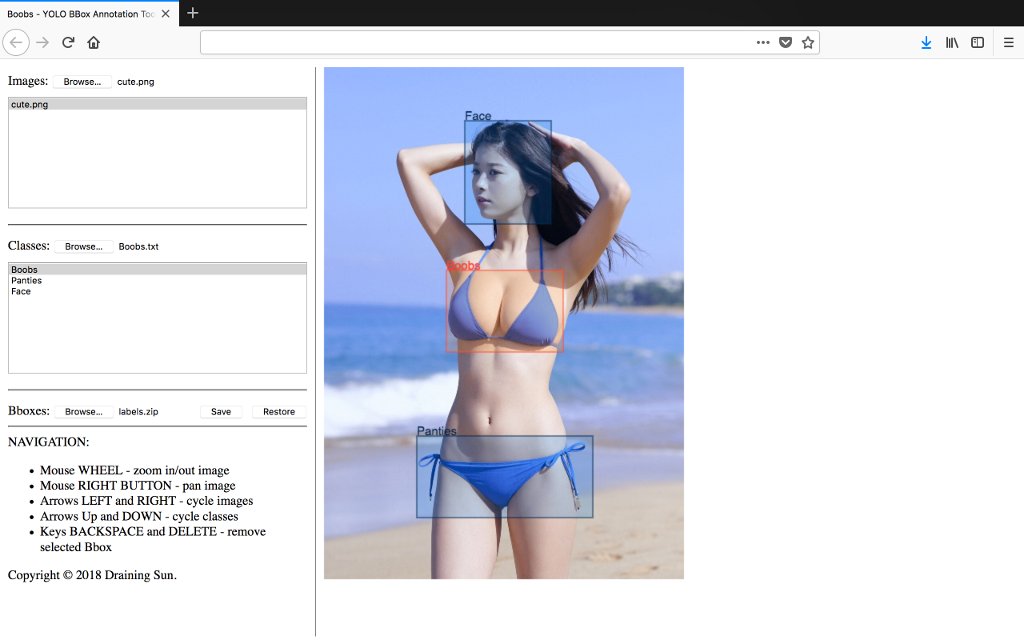
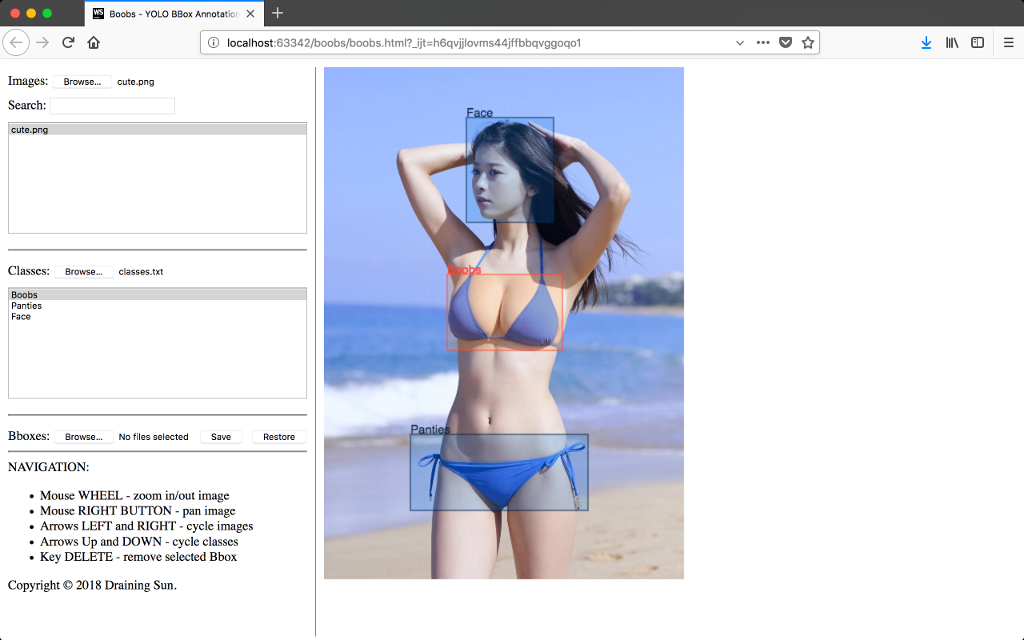
v0.1.2

diff --git a/boobs.js b/boobs.js
@@ -17,7 +17,8 @@
     const minZoom = 0.1 // Min size of original
     const maxZoom = 5 // Max size of original
     const edgeSize = 5 // Pixels
-    let scale = 0.5 // Default zoom level
+    const resetCanvasOnChange = true // Or false
+    const defaultScale = 0.5 // Default zoom level
 
     // Main containers
     let canvas = null
@@ -34,6 +35,7 @@
     let classListIndex = 0
 
     // Scaling containers
+    let scale = defaultScale
     let canvasX = 0
     let canvasY = 0
     let screenX = 0
@@ -76,6 +78,7 @@
             listenBboxSave()
             listenBboxRestore()
             listenKeyboard()
+            listenImageSearch()
         }
     }
 
@@ -508,7 +511,10 @@
                     const nameParts = files[i].name.split(".")
 
                     if (extensions.indexOf(nameParts[nameParts.length - 1]) !== -1) {
-                        images[files[i].name] = {meta: files[i]}
+                        images[files[i].name] = {
+                            meta: files[i],
+                            index: i
+                        }
 
                         const option = document.createElement("option")
 
@@ -690,80 +696,100 @@
         document.getElementById("bboxes").addEventListener("change", (event) => {
             resetBboxes()
 
-            const reader = new FileReader()
+            const files = event.target.files
 
-            reader.addEventListener("load", () => {
-                const zip = new JSZip()
+            if (files.length > 0) {
+                for (let i = 0; i < files.length; i++) {
+                    const reader = new FileReader()
 
-                zip.loadAsync(reader.result)
-                    .then((result) => {
-                        for (let filename in result.files) {
-                            result.file(filename).async("string")
-                                .then((text) => {
-                                    let image = null
-                                    let bbox = null
+                    const nameParts = files[i].name.split(".")
 
-                                    for (let i = 0; i < extensions.length; i++) {
-                                        const imageName = filename.replace(".txt", `.${extensions[i]}`)
+                    reader.addEventListener("load", () => {
+                        if (nameParts[nameParts.length - 1] === "txt") {
+                            storeBbox(files[i].name, reader.result)
+                        } else {
+                            const zip = new JSZip()
 
-                                        if (typeof images[imageName] !== "undefined") {
-                                            image = images[imageName]
-
-                                            if (typeof bboxes[imageName] === "undefined") {
-                                                bboxes[imageName] = {}
-                                            }
-
-                                            bbox = bboxes[imageName]
-
-                                            break
-                                        }
-                                    }
-
-                                    if (bbox) {
-                                        const rows = text.split("\n")
-
-                                        for (let i = 0; i < rows.length; i++) {
-                                            const cols = rows[i].split(" ")
-
-                                            cols[0] = parseInt(cols[0])
-
-                                            for (let className in classes) {
-                                                if (classes[className] === cols[0]) {
-                                                    if (typeof bbox[className] === "undefined") {
-                                                        bbox[className] = []
-                                                    }
-
-                                                    // Reverse engineer actual position and dimensions from yolo format
-                                                    const width = Math.floor(cols[3] * image.width)
-                                                    const x = Math.floor(cols[1] * image.width)
-                                                    const height = Math.floor(cols[4] * image.height)
-                                                    const y = Math.floor(cols[2] * image.height)
-
-                                                    bbox[className].push({
-                                                        x: x - width * 0.5,
-                                                        y: y - height * 0.5,
-                                                        width: width,
-                                                        height: height,
-                                                        marked: false,
-                                                        class: className
-                                                    })
-
-                                                    break
-                                                }
-                                            }
-                                        }
+                            zip.loadAsync(reader.result)
+                                .then((result) => {
+                                    for (let filename in result.files) {
+                                        result.file(filename).async("string")
+                                            .then((text) => {
+                                                storeBbox(filename, text)
+                                            })
                                     }
                                 })
                         }
                     })
-            })
 
-            reader.readAsArrayBuffer(event.target.files[0])
+                    if (nameParts[nameParts.length - 1] === "txt") {
+                        reader.readAsText(files[i])
+                    } else {
+                        reader.readAsArrayBuffer(event.target.files[i])
+                    }
+                }
+            }
         })
     }
 
     const resetBboxes = () => {
         bboxes = {}
+    }
+
+    const storeBbox = (filename, text) => {
+        let image = null
+        let bbox = null
+
+        for (let i = 0; i < extensions.length; i++) {
+            const imageName = filename.replace(".txt", `.${extensions[i]}`)
+
+            if (typeof images[imageName] !== "undefined") {
+                image = images[imageName]
+
+                if (typeof bboxes[imageName] === "undefined") {
+                    bboxes[imageName] = {}
+                }
+
+                bbox = bboxes[imageName]
+
+                break
+            }
+        }
+
+        if (bbox) {
+            const rows = text.split("\n")
+
+            for (let i = 0; i < rows.length; i++) {
+                const cols = rows[i].split(" ")
+
+                cols[0] = parseInt(cols[0])
+
+                for (let className in classes) {
+                    if (classes[className] === cols[0]) {
+                        if (typeof bbox[className] === "undefined") {
+                            bbox[className] = []
+                        }
+
+                        // Reverse engineer actual position and dimensions from yolo format
+                        const width = Math.floor(cols[3] * image.width)
+                        const x = Math.floor(cols[1] * image.width - width * 0.5)
+                        const height = Math.floor(cols[4] * image.height)
+                        const y = Math.floor(cols[2] * image.height - height * 0.5)
+
+                        bbox[className].push({
+                            x: x,
+                            y: y,
+                            width: width,
+                            height: height,
+                            marked: false,
+                            class: className
+                        })
+
+                        break
+                    }
+                }
+            }
+        }
     }
 
     const listenBboxSave = () => {
@@ -833,10 +859,12 @@
         document.addEventListener("keydown", (event) => {
             const key = event.keyCode || event.charCode
 
-            if (key === 8 || key === 46) {
+            if (key === 46) {
                 if (currentBbox !== null) {
                     bboxes[currentImage.name][currentBbox.bbox.class].splice(currentBbox.index, 1)
                     currentBbox = null
+
+                    document.body.style.cursor = "default"
                 }
 
                 event.preventDefault()
@@ -853,6 +881,11 @@
                     }
 
                     imageList.options[imageListIndex].selected = true
+                    imageList.selectedIndex = imageListIndex
+
+                    if (resetCanvasOnChange === true) {
+                        resetCanvasPlacement()
+                    }
 
                     setCurrentImage(images[imageList.options[imageListIndex].innerHTML])
 
@@ -873,6 +906,11 @@
                     }
 
                     imageList.options[imageListIndex].selected = true
+                    imageList.selectedIndex = imageListIndex
+
+                    if (resetCanvasOnChange === true) {
+                        resetCanvasPlacement()
+                    }
 
                     setCurrentImage(images[imageList.options[imageListIndex].innerHTML])
 
@@ -893,6 +931,7 @@
                     }
 
                     classList.options[classListIndex].selected = true
+                    classList.selectedIndex = classListIndex
 
                     setCurrentClass()
                 }
@@ -911,11 +950,45 @@
                     }
 
                     classList.options[classListIndex].selected = true
+                    classList.selectedIndex = classListIndex
 
                     setCurrentClass()
                 }
 
                 event.preventDefault()
+            }
+        })
+    }
+
+    const resetCanvasPlacement = () => {
+        scale = defaultScale
+        canvasX = 0
+        canvasY = 0
+        screenX = 0
+        screenY = 0
+
+        mouse.x = 0
+        mouse.y = 0
+        mouse.realX = 0
+        mouse.realY = 0
+        mouse.buttonL = 0
+        mouse.buttonR = 0
+        mouse.startRealX = 0
+        mouse.startRealY = 0
+    }
+
+    const listenImageSearch = () => {
+        document.getElementById("imageSearch").addEventListener("input", (event) => {
+            const value = event.target.value
+
+            for (let imageName in images) {
+                if (imageName.indexOf(value) !== -1) {
+                    document.getElementById("imageList").selectedIndex = images[imageName].index
+
+                    setCurrentImage(images[imageName])
+
+                    break
+                }
             }
         })
     }

diff --git a/boobs.html b/boobs.html
@@ -17,6 +17,12 @@
             <form action="">
                 <label for="images">Images:</label>
                 <input type="file" id="images" name="images[]" accept="image/jpeg, image/png" multiple />
+
+                <br />
+
+                <label for="imageSearch">Search:</label>
+                <input type="text" id="imageSearch" name="imageSearch" />
+
                 <label for="imageList"></label><select name="imageList" id="imageList" size="10" multiple></select>
 
                 <hr />
@@ -28,7 +34,7 @@
                 <hr />
 
                 <label for="bboxes">Bboxes:</label>
-                <input type="file" id="bboxes" name="bboxes" accept="application/zip" disabled />
+                <input type="file" id="bboxes" name="bboxes" accept="text/plain, application/zip" disabled multiple />
                 <input type="button" name="restoreBboxes" id="restoreBboxes" value="Restore" disabled />
                 <input type="button" name="saveBboxes" id="saveBboxes" value="Save" />
 
@@ -50,7 +56,7 @@
                             Arrows Up and DOWN - cycle classes
                         </li>
                         <li>
-                            Keys BACKSPACE and DELETE - remove selected Bbox
+                            Key DELETE - remove selected Bbox
                         </li>
                     </ul>
 

diff --git a/boobs.css b/boobs.css
@@ -48,3 +48,7 @@ body {
     margin-left: 10px;
     margin-top: 10px;
 }
+
+#imageSearch {
+    margin-top: 10px
+}

diff --git a/README.md b/README.md
@@ -1,5 +1,5 @@
 # Boobs - YOLO BBox Annotation Tool
-Fast and efficient BBox labeling for your images in YOLO format.
+Fast and efficient BBox annotation for your images in YOLO format.
 
 ## INTRO
 To see why and for what this was created, please read [Boobs - YOLO BBox Annotation Tool](https://medium.com/@drainingsun/boobs-yolo-bbox-annotation-tool-96fb765d0036)
@@ -10,7 +10,7 @@ To see why and for what this was created, please read [Boobs - YOLO BBox Annotat
 1. Download the zip.
 2. Extract it.
 3. Open `boobs.html` in your browser.
-4. Load images and classes and start labeling!
+4. Load images and classes and start bboxing!
 
 ## CONFIGURATION
 1. Open boobs.js.
@@ -27,12 +27,12 @@ All browsers that support ES6 should work. Tested with:
 No idea about IE/Edge.
 
 ## FEATURES
-* Work in your browser on any platform.
+* Works in your browser on any platform.
 * Complete YOLO format support.
-* No need for image upload - label locally!
-* Zooming and panning images for precise labeling.
-* Fast navigation for quick labeling.
-* Auto save in memory for accidental refreshes and crashes.
+* No need for image upload - everything is done locally!
+* Zooming and panning images for precise bboxing.
+* Fast navigation for quick bboxing.
+* Auto save in memory in case of accidental refreshes and crashes.
 
 ## CAVEATS
 Loading many and or big images might take a while. This is because tool needs to figure out image dimensions. 

diff --git a/CHANGELOG.md b/CHANGELOG.md
@@ -1,7 +1,18 @@
+# 2018-02-17, v0.1.2
+
+* Fixed CHANGELOG formatting.
+* Fixed select box not auto scrolling to selection.
+* Made sure coordinate pixels are without decimal point.
+* Canvas now resets on image change to original zoom and position (can be turned off).
+* Implemented rudimentary image search by name.
+* Added ability to upload unzipped and/or multiple bboxes.
+* Fixed mouse cursor not resetting on bbox delete.
+* Updates README.md and screenshot to reflect changes.
+
 # 2018-02-15, v0.1.1
 
-Fixed, so that canvas left offset doesn't cause misplacement of bboxes.
-Fixed, that errors won't be thrown in console if image doesn't exist for a bbox.
+* Fixed, so that canvas left offset doesn't cause misplacement of bboxes.
+* Fixed, that errors won't be thrown in console if image doesn't exist for a bbox.
 
 # 2018-02-14, v0.1.0
 
